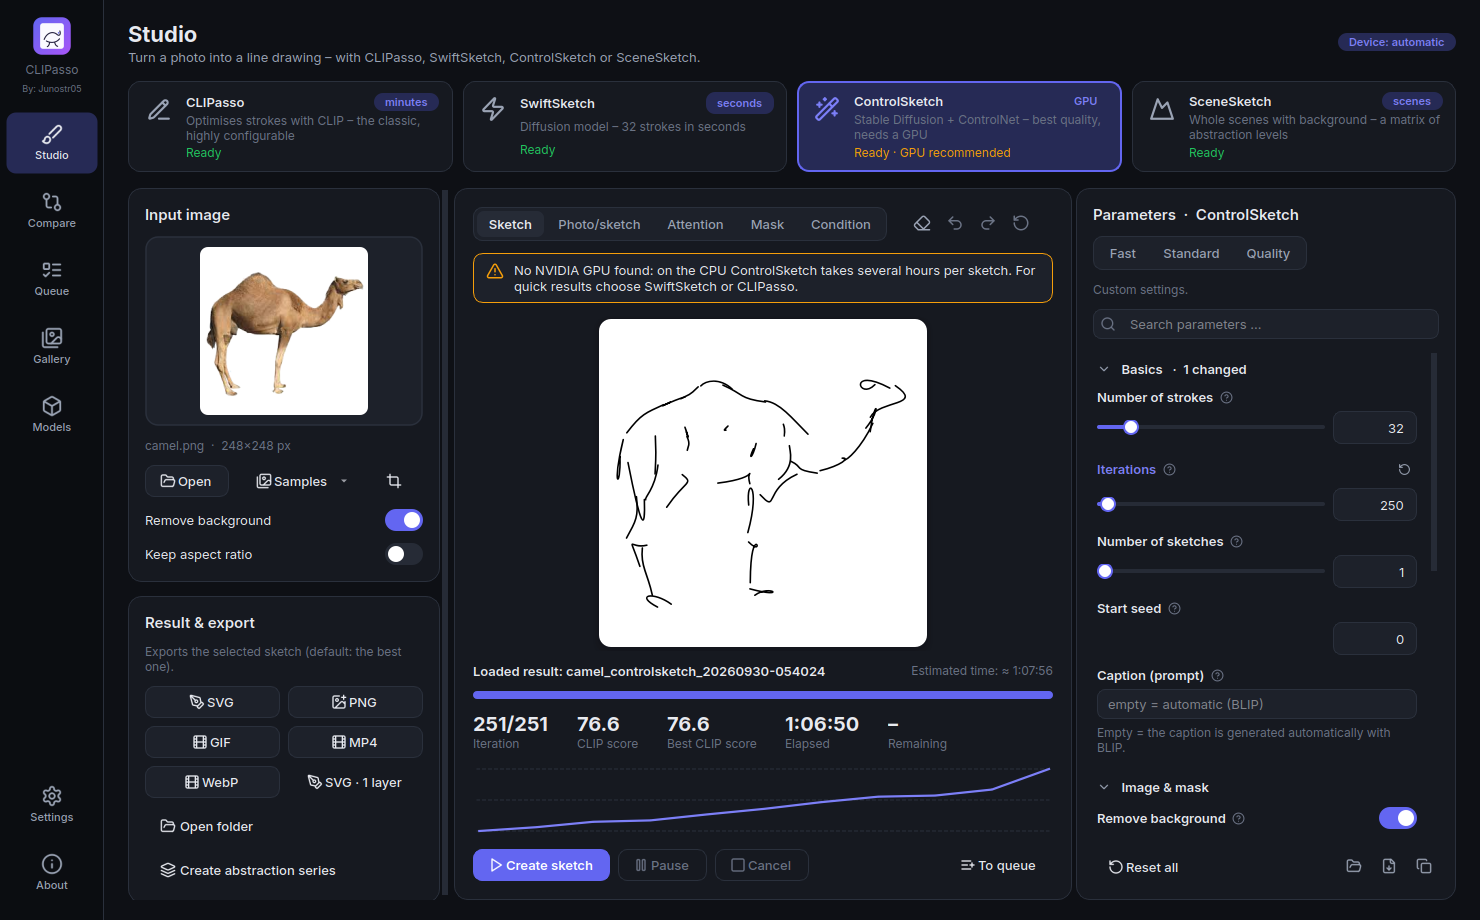
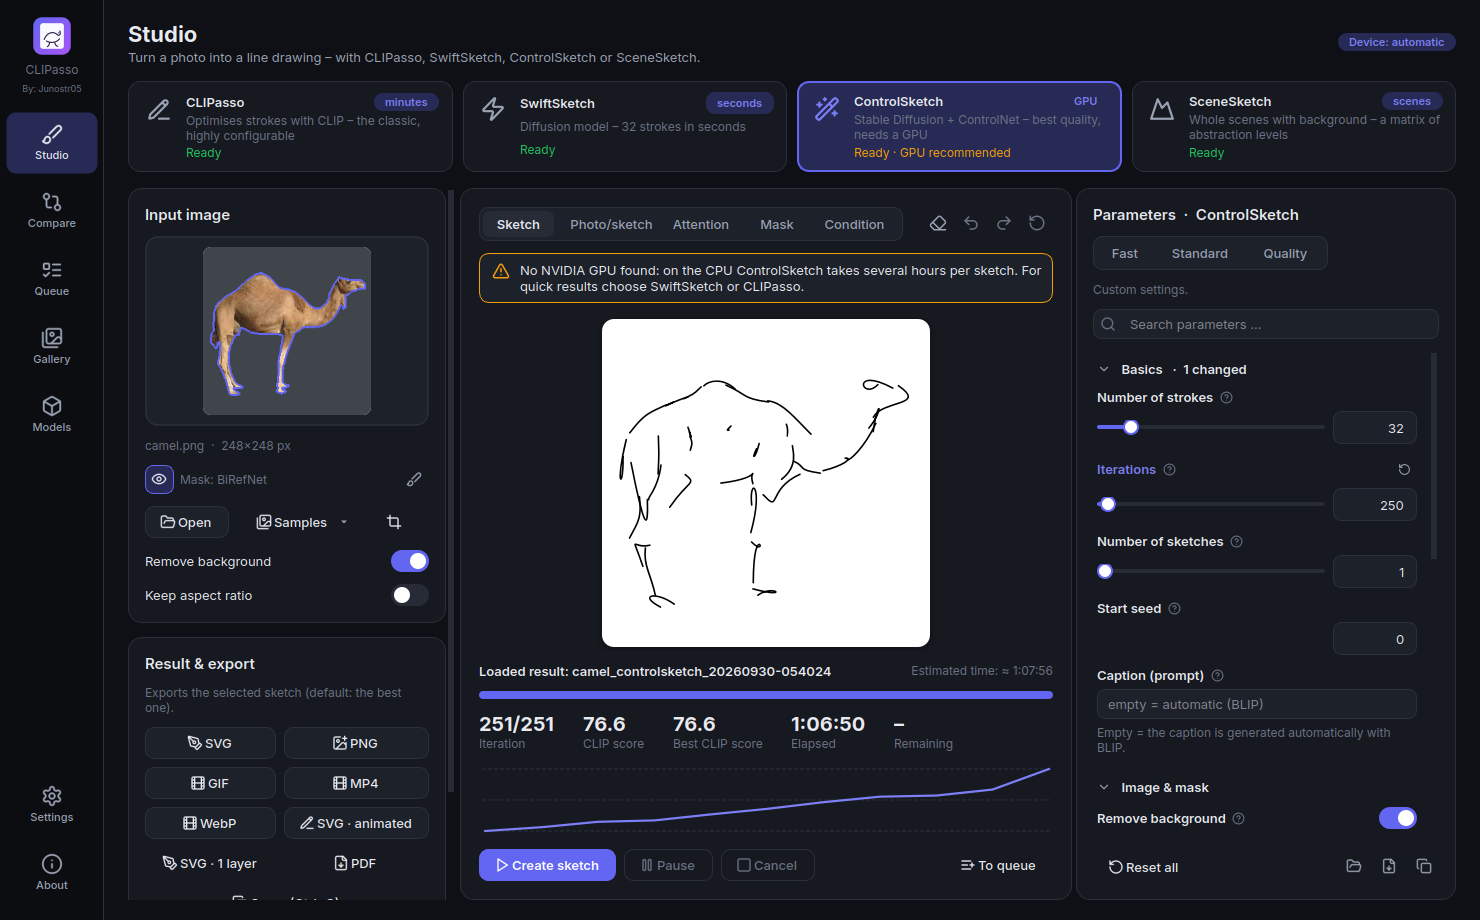
Release 2.4.0
Version 2.4.0, release notes, README features and screenshots (the studio
shows the mask preview now; the screenshot tool waits for it).

Claude-Session: https://claude.ai/code/session_01S7pgJpBq7v1cwD5D27gajo

diff --git a/tools/screenshots.py b/tools/screenshots.py
@@ -14,6 +14,7 @@ import argparse
 import os
 import sys
 import tempfile
+import time
 from pathlib import Path
 
 os.environ.setdefault("QT_QPA_PLATFORM", "offscreen")
@@ -83,6 +84,7 @@ def main() -> int:
             from clipasso_studio.gui import dialogs
 
             dialogs.wait_for_threads()  # e.g. the hardware probe of the settings page
+            w.studio.shutdown()
             w.close()
             app.quit()
             return
@@ -104,8 +106,13 @@ def main() -> int:
                 if sec in w.studio.params.sections and (sec != "sds" or method == "controlsketch"):
                     w.studio.params.sections[sec].set_expanded(sec in ("basics", "image", "init", "diffusion"))
 
+        deadline = time.time() + 180
+
         def grab():
             app.processEvents()
+            if getattr(w.studio, "mask_state", "") == "busy" and time.time() < deadline:
+                QTimer.singleShot(500, grab)  # the mask preview of the input is still being computed
+                return
             w.grab().save(str(out / f"{name}_{args.theme}_{args.lang}.png"))
             shoot(i + 1)
 

diff --git a/clipasso_studio/__init__.py b/clipasso_studio/__init__.py
@@ -1,5 +1,5 @@
 """CLIPasso Studio – desktop app for vector sketching from photos (CLIPasso, SwiftSketch, ControlSketch)."""
 
-__version__ = "2.3.0"
+__version__ = "2.4.0"
 APP_NAME = "CLIPasso Studio"
 APP_ID = "CLIPassoStudio"

diff --git a/README.md b/README.md
@@ -81,14 +81,15 @@ Pick the method at the top of the studio with one click. Parameters, presets, ti
 - **Live preview** for all methods: you watch the sketch being drawn (for SwiftSketch every denoising step). Plus a photo/sketch slider, the attention map with the stroke start points, the mask, the ControlNet condition image for ControlSketch, a loss or CLIP score curve, the remaining time and thumbnails of all seeds. **Several sketches per image – the best one is picked automatically** (CLIPasso: lowest loss; SwiftSketch and ControlSketch: highest CLIP score).
 - **Presets** (Fast / Standard / Quality) per method, import/export of the settings as JSON, “copy command line”.
 - **Precise object mask with BiRefNet**: finds the object for all four methods – far more accurately than U²-Net (fine details like poles, hair or cables, several objects, busy backgrounds). Downloaded once (444 MB); *BiRefNet lite* (faster, 89 MB) or the original U²-Net can be picked per method (“Mask model”). Masks are cached, so the same image is not computed twice.
+- **See and fix the mask before a run**: the studio shows the object on the input image as soon as you pick one. *Edit mask*: click a part to remove it, click next to the object to add an area of similar colour (magic wand), or paint with the brush – every method then uses your mask. Small objects in large photos are **framed automatically** so they fill the canvas (CLIPasso, SwiftSketch; can be switched off).
 - **Touch-ups**: crop, rotate or flip the input image right in the studio; remove single strokes from a finished sketch with the **eraser** (with undo – the original stays).
-- **Export**: SVG (stroke colour, width, background, **brush style**: plain, ink, pencil or marker), **SVG · 1 layer** (all strokes as one path in a single layer – for plotters, cutting machines such as Cricut or Silhouette, and laser software), PNG at any resolution, **GIF / MP4 / animated WebP of the drawing process** – you set how long the drawing takes and the frame rate follows (for SwiftSketch: how the strokes emerge from noise). SceneSketch: the **whole matrix** as one ZIP (every sketch as SVG and PNG plus an overview sheet). Abstraction series with one click (CLIPasso, ControlSketch).
-- **Queue** for many images (also a whole folder at once), also with mixed methods, with pause/cancel, a notification when done and protection against sleep mode. **Export all** results of the queue – or all results the gallery shows – in one go.
+- **Export**: SVG (stroke colour, width, background, **brush style**: plain, ink, pencil or marker), **SVG · 1 layer** (all strokes as one path in a single layer – for plotters, cutting machines such as Cricut or Silhouette, and laser software), PNG at any resolution, **PDF** (vector, for printing), **GIF / MP4 / animated WebP** – of the drawing process (for SwiftSketch: how the strokes emerge from noise) or **stroke by stroke** like by hand; you set how long the drawing takes and the frame rate follows. **SVG · animated**: an SVG that draws itself in the browser. **Copy** (Ctrl+C) puts the sketch on the clipboard. SceneSketch: the **whole matrix** as one ZIP (every sketch as SVG and PNG plus an overview sheet). Abstraction series with one click (CLIPasso, ControlSketch).
+- **Queue** for many images (a whole folder at once, or **drag & drop** images and folders), also with mixed methods, with pause/cancel, a notification when done and protection against sleep mode – and, for runs overnight, **sleep or shut down when done**. **Export all** results of the queue – or all results the gallery shows – in one go.
 - **Continue interrupted jobs**: long runs save checkpoints; if the app or the PC closes (or you cancel), *Continue* picks up where it stopped – finished sketches are kept.
 - **Gallery** of all results: click one to continue working on it in the studio – with its image and settings (every job keeps a copy of its input image, so this works even after the original was moved or deleted). Favourites, sorting, search, method filter, “Show folder” and delete (to the recycle bin).
-- **Models** page grouped by method: download with progress, delete, manual import of the SwiftSketch weights (in case Google Drive hits its daily quota). Interrupted downloads continue where they stopped.
+- **Models** page grouped by method: download with progress, delete, manual import of the SwiftSketch weights (in case Google Drive hits its daily quota). Interrupted downloads continue where they stopped; the **model folder** can be moved to another drive.
 - **Dark/light theme**, **English/German** interface (follows the Windows language, switchable at runtime), keyboard shortcuts (Ctrl+V pastes an image, Ctrl+Enter starts), and a command-line mode that is compatible with the original arguments of all four methods.
-- **Updates with one click** (download, checksum check, install – can be switched off), adjustable **interface size** (90–150 %) and a **crash log**: unexpected errors are shown and saved in a log file that you can attach to a bug report.
+- **Updates with one click** (download, checksum check, install – can be switched off), adjustable **interface size** (90–150 %), a short **guide** on the first start (again on the About page) and a **crash log**: unexpected errors are shown and saved in a log file that you can attach to a bug report.
 
 <p>
   <img src="docs/screenshots/studio_scenesketch_dark_en.png" width="49%" alt="SceneSketch's matrix view in the studio">
@@ -141,7 +142,7 @@ In CLI mode, missing models are downloaded automatically (`--no_download` preven
 - The ratio loss of the simplification only decides *how many* strokes remain; in the original it also moves the strokes, and when a level lowers the target the quickest way to meet it is to make the sketch worse – objects visibly scrambled (the ballerina at level 2). Here each level is a clean, sparser version of the previous one.
 - Fewer than 8 simplification levels span the same range with larger steps; objects on a plain background (e.g. product photos) skip the background sketch.
 
-**Object mask** – BiRefNet (MIT) runs as a port of its network (`clipasso_studio/engine/birefnet.py`: Swin-L backbone for the general model, Swin-T for the lite one, deformable ASPP decoder), without timm, kornia, einops or remote code from the Hub; checked against the original code with the real weights (identical outputs). On the CPU the deformable convolutions use a `grid_sample` implementation that is about 2.5× faster than torchvision's (same results up to float rounding). The original CLIPasso and SceneSketch use U²-Net, SwiftSketch and ControlSketch BRIA RMBG-1.4; BiRefNet replaces both by default, U²-Net stays selectable. Jobs interrupted with an older version continue with U²-Net, so their sketches match.
+**Object mask** – BiRefNet (MIT) runs as a port of its network (`clipasso_studio/engine/birefnet.py`: Swin-L backbone for the general model, Swin-T for the lite one, deformable ASPP decoder), without timm, kornia, einops or remote code from the Hub; checked against the original code with the real weights (identical outputs). On the CPU the deformable convolutions use a `grid_sample` implementation that is about 2.5× faster than torchvision's (same results up to float rounding). The original CLIPasso and SceneSketch use U²-Net, SwiftSketch and ControlSketch BRIA RMBG-1.4; BiRefNet replaces both by default, U²-Net stays selectable. Masks edited in the app are stored per image content and used instead of the model by every method. *Fit the object* (CLIPasso, SwiftSketch) is not in the originals: with the background removed, a small object is cropped to fill 85 % of the canvas. Jobs interrupted with an older version continue with U²-Net and without framing, so their sketches match.
 
 The SwiftSketch, ControlSketch, SceneSketch and BiRefNet models are not bundled: they are downloaded from the official sources on first use (the authors' Google Drive, Hugging Face with pinned revisions, and the LaMa export of IOPaint on GitHub) and stored locally (ControlSketch, LaMa and BiRefNet models in float16).
 

diff --git a/packaging/release_notes.md b/packaging/release_notes.md
@@ -1,10 +1,25 @@
-## CLIPasso Studio 2.4 – a much better object mask
+## CLIPasso Studio 2.4 – a much better mask, and you can fix it
 
-**BiRefNet finds the object.** Removing the background (CLIPasso, SwiftSketch, ControlSketch) and separating object and background (SceneSketch) now use **BiRefNet**, a state-of-the-art segmentation network, instead of U²-Net. It keeps fine parts (a sign's pole, a shower hose, thin legs), finds several objects (two teddy bears instead of one), and leaves no grey haze of background around the object – so the sketch shows what you wanted and nothing else.
-- Downloaded once on the first run that removes the background (444 MB, Hugging Face) – or on the Models page.
-- On a CPU it takes a few seconds per image (GPU: well under a second); the mask is cached, so the same image again – another seed, the parallel sketches, a re-run with other settings – does not compute it again.
-- **Mask model** in the image settings: *BiRefNet* (best, the default), *BiRefNet lite* (faster, 89 MB) or *U²-Net* (included, the mask of the original CLIPasso).
-- Jobs interrupted with 2.3 continue with U²-Net, so their sketches still match.
+**BiRefNet finds the object.** Removing the background (CLIPasso, SwiftSketch, ControlSketch) and separating object and background (SceneSketch) now use **BiRefNet**, a state-of-the-art segmentation network, instead of U²-Net. It keeps fine parts (a sign's pole, a shower hose, thin legs), finds several objects (two teddy bears instead of one) and leaves no grey haze of background around the object.
+- Downloaded once on the first run that removes the background (444 MB) – a few seconds per image on a CPU, well under one on a GPU. Masks are cached, so the same image is never computed twice.
+- **Mask model** in the image settings: *BiRefNet* (best, the default), *BiRefNet lite* (faster, 89 MB) or *U²-Net* (included, the original).
+
+**See and fix the mask before you start**
+- The studio shows the object on your photo as soon as you pick one (the eye button hides it).
+- **Edit mask** (brush icon): click a part to remove it, click next to the object to add an area of similar colour (magic wand), or paint with the brush; undo / redo. Every method uses your mask – also in the queue and when a job is continued.
+- **Fit the object** (CLIPasso, SwiftSketch): a small object in a large photo is cropped so it fills the canvas – a full-size sketch instead of a tiny one.
+
+**Export**
+- **Stroke by stroke**: GIF, MP4 and WebP can show the finished strokes being drawn one after another, like by hand (or the drawing process as before).
+- **SVG · animated**: an SVG that draws itself in the browser – for websites and presentations.
+- **PDF** for printing (vector, any size) – also in “Export all”.
+- **Copy** (Ctrl+C, or the gallery card menu): the sketch goes to the clipboard – paste it into Word, PowerPoint, Figma, Photoshop …
+
+**Workflow**
+- **Drag & drop** several images or whole folders onto the studio or the queue.
+- **When the queue is done**: sleep or shut down the PC after the last job (with a 60-second countdown) – for runs overnight.
+- **Model folder**: keep the downloaded models (up to ~10 GB) on another drive (Settings → Files).
+- A short **guide** on the first start (again via “Show the guide” on the About page).
 
 | File | For whom? |
 |---|---|
